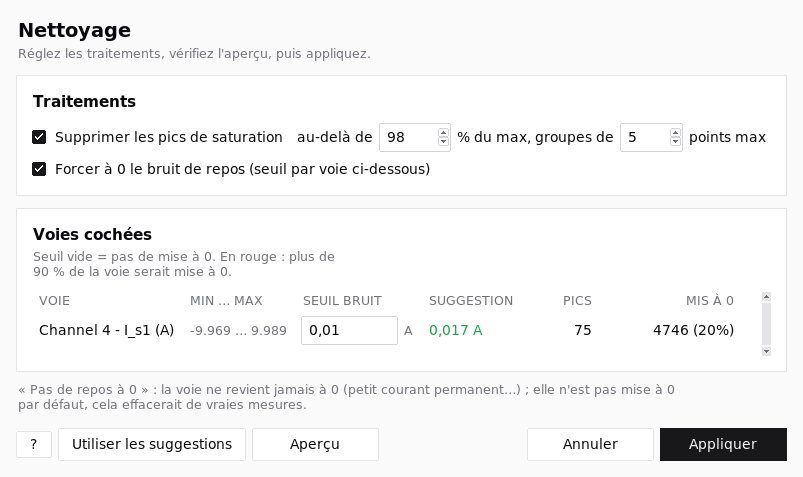
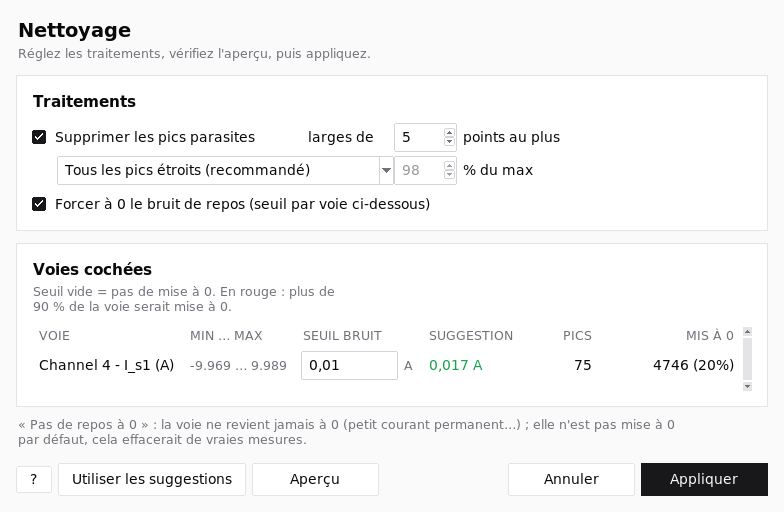
Pics parasites de toute hauteur, noms des voies GL980 (v0.6.0)
Problèmes constatés sur un vrai fichier GL980 (1,7 M points) :

- Légendes « A », « A (2) », « V (2) »… : la ligne d'unités sous l'en-tête
  (« No.,yyyy/mm/dd,hh:mm:ss,us,V,A,… ») n'était pas reconnue à cause des
  formats de date / heure ; elle devenait le nom des voies. Les noms du bloc
  AMP settings (U_alim, I_s1…) sont de nouveau utilisés.
- Pics non supprimés : seuls les pics au-delà de 98 % du maximum étaient
  retirés (5 par passe). Les parasites de hauteur quelconque restaient
  (reproduit : 50 points parasites sur 80 restants).

Nouvelle règle des pics : groupe de 5 points au plus qui s'écarte du niveau
local de plus de 8 × le bruit et de 5 % de l'amplitude utile (sans les pics),
ET à la fois des points juste avant et juste après (un front de créneau
n'est jamais touché, même avec un parasite juste à côté). Le mode
« saturation seule » reste disponible dans la fenêtre de nettoyage.

Tests : parasites de hauteurs variées dont un juste avant un front (80/80
retirés, aucun autre point modifié), ligne d'unités avec formats de date.

diff --git a/cleantrace/cleaning.py b/cleantrace/cleaning.py
@@ -4,12 +4,13 @@ Règles métier :
 
 1. **Bruit de repos** (``chk_noise``) : pendant les phases d'arrêt, tout signal sous le
    seuil physique (< 10 mA, < 5 mV...) est forcé à 0.0.
-2. **Pics de saturation** (``chk_peaks``) : les groupes d'échantillons étroits proches du
-   plafond de mesure (> 98 % du max) qui dépassent l'enveloppe minimale SciPy
-   (``minimum_filter1d`` suivi de ``maximum_filter1d``, c'est-à-dire une ouverture
-   morphologique) ET le niveau local de la courbe de beaucoup plus que le bruit de
-   mesure, sont remplacés par ce niveau local (médiane glissante), puis lissés par
+2. **Pics parasites** (``chk_peaks``) : les groupes d'échantillons étroits (5 points au
+   plus) qui s'écartent du niveau local de la courbe (médiane glissante) de beaucoup plus
+   que le bruit de mesure sont remplacés par ce niveau local, puis lissés par
    ``gaussian_filter1d``. Le haut du bruit d'un palier réel n'est donc jamais raboté.
+   Mode « saturation » (règle d'origine du cahier des charges) : seulement les pics
+   au-delà de 98 % du max, qui dépassent aussi l'enveloppe minimale SciPy
+   (``minimum_filter1d`` puis ``maximum_filter1d``, ouverture morphologique).
 
 Garanties (critères d'acceptation) :
 
@@ -41,6 +42,7 @@ NOISE_THRESHOLDS = {
 class CleaningOptions:
     remove_noise: bool = True  # chk_noise
     remove_peaks: bool = True  # chk_peaks
+    peak_mode: str = "all"  # "all" : tous les pics étroits ; "saturation" : seulement > saturation_ratio × max
     saturation_ratio: float = 0.98  # seuil "proche du plafond" (fraction du max)
     max_peak_width: int = 5  # largeur max d'un pic parasite (échantillons)
     min_prominence: float = 0.05  # hauteur min d'un pic au-dessus de l'enveloppe (fraction de l'amplitude)
@@ -126,6 +128,7 @@ def clean_signal(
             min_prominence=options.min_prominence,
             sigma=options.smoothing_sigma,
             noise_factor=options.noise_factor,
+            saturation_only=options.peak_mode == "saturation",
         )
     if options.remove_noise:
         threshold = default_noise_threshold(unit) if noise_threshold is _DEFAULT else noise_threshold
@@ -172,8 +175,16 @@ def remove_saturation_peaks(
     sigma: float = 1.0,
     max_iter: int = 5,
     noise_factor: float = 8.0,
+    saturation_only: bool = False,
 ) -> Tuple[np.ndarray, int]:
-    """Supprime les pics de saturation (positifs et négatifs) sans toucher au reste du signal."""
+    """Supprime les pics parasites (positifs et négatifs) sans toucher au reste du signal.
+
+    Un pic est un groupe d'au plus ``max_width`` points consécutifs qui s'écarte du niveau
+    local de la courbe (médiane glissante) de plus de ``noise_factor`` × le bruit de mesure
+    ET de plus de ``min_prominence`` × l'amplitude utile de la voie (calculée sans les pics).
+    Avec ``saturation_only``, seuls les pics au-delà de ``ratio`` × le maximum (ou le
+    minimum) sont concernés — la règle d'origine du cahier des charges.
+    """
     out = np.asarray(y, dtype=float).copy()
     finite = np.isfinite(out)
     if finite.sum() < 3:
@@ -190,19 +201,27 @@ def remove_saturation_peaks(
         upper_env = maximum_filter1d(minimum_filter1d(work, size, mode="nearest"), size, mode="nearest")
         lower_env = minimum_filter1d(maximum_filter1d(work, size, mode="nearest"), size, mode="nearest")
 
-        amplitude = float(np.max(work) - np.min(work))
-        if amplitude == 0:
-            break
-        prominence = min_prominence * amplitude
-        # Niveau local de la courbe (médiane glissante, insensible à un pic de 5 points) et
-        # écart minimal pour parler de pic : jamais moins de noise_factor × le bruit de mesure,
-        # sinon le haut du bruit d'un palier réel serait raboté.
+        # Niveau local de la courbe (médiane glissante, insensible à un pic de max_width points)
         level = median_filter(work, size=4 * max_width + 1, mode="nearest")
+        if saturation_only:
+            amplitude = float(np.max(work) - np.min(work))
+        else:  # amplitude utile, sans les pics (sinon un grand pic en masquerait de plus petits)
+            amplitude = float(np.percentile(level, 99.9) - np.percentile(level, 0.1))
+        prominence = min_prominence * amplitude
+        # Écart minimal pour parler de pic : jamais moins de noise_factor × le bruit de mesure,
+        # sinon le haut du bruit d'un palier réel serait raboté.
         margin = max(prominence, noise_factor * _noise_sigma(work))
+        if margin <= 0:
+            break
+        deviation = work - level
 
-        high, low = _saturated(work, ratio)
-        pos = _narrow(high, max_width) & (work - upper_env > prominence) & (work - level > margin)
-        neg = _narrow(low, max_width) & (lower_env - work > prominence) & (level - work > margin)
+        if saturation_only:
+            high, low = _saturated(work, ratio)
+            pos = _narrow(high, max_width) & (work - upper_env > prominence) & (deviation > margin)
+            neg = _narrow(low, max_width) & (lower_env - work > prominence) & (-deviation > margin)
+        else:
+            pos = _confirm_spikes(work, _narrow(deviation > margin, max_width), max_width, margin)
+            neg = _confirm_spikes(work, _narrow(-deviation > margin, max_width), max_width, margin)
         if not (pos.any() or neg.any()):
             break
         work[pos | neg] = level[pos | neg]
@@ -249,6 +268,25 @@ def _runs(mask: np.ndarray):
     return zip(edges[::2], edges[1::2])
 
 
+def _confirm_spikes(y: np.ndarray, mask: np.ndarray, width: int, margin: float) -> np.ndarray:
+    """Ne garde que les groupes qui s'écartent À LA FOIS des points juste avant et juste après,
+    dans le même sens. Un front de créneau ne s'écarte que d'un côté : il n'est jamais touché,
+    même si un pic voisin fausse la médiane locale."""
+    out = np.zeros_like(mask)
+    n = len(y)
+    for start, stop in _runs(mask):
+        left = y[max(0, start - width):start]
+        right = y[stop:min(n, stop + width)]
+        if not len(left) or not len(right):
+            continue  # au bord du fichier : pas assez de contexte
+        run = y[start:stop]
+        peak = run[np.argmax(np.abs(run - np.median(np.r_[left, right])))]
+        d_left, d_right = peak - np.median(left), peak - np.median(right)
+        if abs(d_left) > margin and abs(d_right) > margin and np.sign(d_left) == np.sign(d_right):
+            out[start:stop] = True
+    return out
+
+
 def _noise_sigma(y: np.ndarray) -> float:
     """Écart-type du bruit de mesure, estimé de façon robuste sur les différences successives
     (les fronts des créneaux et les pics sont trop rares pour fausser la médiane)."""
@@ -256,6 +294,12 @@ def _noise_sigma(y: np.ndarray) -> float:
     if len(d) == 0:
         return 0.0
     mad = float(np.median(np.abs(d - np.median(d))))
+    if mad == 0:
+        # Valeurs très quantifiées (ex. pas de 0,01, la plupart des points égaux à leur
+        # voisin) : le bruit vaut un pas de mesure. Si seuls les fronts varient, le signal
+        # est sans bruit (données de synthèse) : bruit nul.
+        steps = np.abs(d[d != 0])
+        return float(np.min(steps)) if len(steps) > 0.1 * len(d) else 0.0
     return 1.4826 * mad / np.sqrt(2.0)
 
 

diff --git a/cleantrace/dialogs.py b/cleantrace/dialogs.py
@@ -10,6 +10,11 @@ from .export import Key
 from .help import HelpWindow
 from .theme import C, card
 
+PEAK_MODES = {
+    "all": "Tous les pics étroits (recommandé)",
+    "saturation": "Seulement la saturation, au-delà de",
+}
+
 
 def _fmt(value: Optional[float]) -> str:
     return "" if value is None else "{:g}".format(value).replace(".", ",")
@@ -50,18 +55,26 @@ class CleaningDialog(tk.Toplevel):
         outer.pack(fill=tk.X)
         top = ttk.Frame(box, style="Card.TFrame")  # grille (card() place son titre avec pack)
         top.pack(fill=tk.X)
-        ttk.Checkbutton(top, text="Supprimer les pics de saturation", variable=app.chk_peaks,
+        ttk.Checkbutton(top, text="Supprimer les pics parasites", variable=app.chk_peaks,
                         style="Card.TCheckbutton").grid(row=0, column=0, sticky=tk.W)
-        ttk.Label(top, text="au-delà de", style="Card.TLabel").grid(row=0, column=1, padx=(12, 4))
-        self.saturation = tk.StringVar(value="98")
-        ttk.Spinbox(top, from_=50, to=100, increment=1, width=5, textvariable=self.saturation).grid(row=0, column=2)
-        ttk.Label(top, text="% du max, groupes de", style="Card.TLabel").grid(row=0, column=3, padx=4)
+        ttk.Label(top, text="larges de", style="Card.TLabel").grid(row=0, column=1, padx=(12, 4))
         self.width = tk.StringVar(value="5")
-        ttk.Spinbox(top, from_=1, to=50, increment=1, width=4, textvariable=self.width).grid(row=0, column=4)
-        ttk.Label(top, text="points max", style="Card.TLabel").grid(row=0, column=5, padx=4)
+        ttk.Spinbox(top, from_=1, to=50, increment=1, width=4, textvariable=self.width).grid(row=0, column=2)
+        ttk.Label(top, text="points au plus", style="Card.TLabel").grid(row=0, column=3, padx=4, sticky=tk.W)
+        self.peak_mode = tk.StringVar(value=PEAK_MODES["all"])
+        mode = ttk.Combobox(top, textvariable=self.peak_mode, values=list(PEAK_MODES.values()),
+                            state="readonly", width=34)
+        mode.grid(row=1, column=0, columnspan=2, sticky=tk.W, padx=(26, 0), pady=(4, 0))
+        mode.bind("<<ComboboxSelected>>", lambda _e: self._on_peak_mode())
+        self.saturation = tk.StringVar(value="98")
+        self.saturation_box = ttk.Spinbox(top, from_=50, to=100, increment=1, width=4,
+                                          textvariable=self.saturation)
+        self.saturation_box.grid(row=1, column=2, pady=(4, 0))
+        ttk.Label(top, text="% du max", style="Card.TLabel").grid(row=1, column=3, padx=4, pady=(4, 0), sticky=tk.W)
+        self._on_peak_mode()
         ttk.Checkbutton(top, text="Forcer à 0 le bruit de repos (seuil par voie ci-dessous)",
                         variable=app.chk_noise, style="Card.TCheckbutton").grid(
-            row=1, column=0, columnspan=6, sticky=tk.W, pady=(6, 0))
+            row=2, column=0, columnspan=6, sticky=tk.W, pady=(8, 0))
 
         # --- tableau des voies
         outer, table_box = card(body, "Voies cochées",
@@ -136,10 +149,15 @@ class CleaningDialog(tk.Toplevel):
 
     # ------------------------------------------------------------------- actions
 
+    def _on_peak_mode(self) -> None:
+        saturation = self.peak_mode.get() == PEAK_MODES["saturation"]
+        self.saturation_box.state(["!disabled"] if saturation else ["disabled"])
+
     def options(self) -> CleaningOptions:
         return CleaningOptions(
             remove_noise=self.app.chk_noise.get(),
             remove_peaks=self.app.chk_peaks.get(),
+            peak_mode="saturation" if self.peak_mode.get() == PEAK_MODES["saturation"] else "all",
             saturation_ratio=float(self.saturation.get().replace(",", ".")) / 100.0,
             max_peak_width=int(self.width.get()),
         )

diff --git a/cleantrace/app.py b/cleantrace/app.py
@@ -140,12 +140,12 @@ class CleanTraceApp:
             return lambda header: ttk.Button(header, text="?", style="Icon.TButton", width=2,
                                              command=lambda: HelpWindow.open(self.root, section)).pack(side=tk.RIGHT)
 
-        outer, clean = card(side, "Nettoyage", "Pics de saturation et bruit de repos des voies cochées.",
+        outer, clean = card(side, "Nettoyage", "Pics parasites et bruit de repos des voies cochées.",
                             actions=help_action("Nettoyage"))
         outer.pack(fill=tk.X, padx=(0, 12), pady=(0, 12))
         self.chk_noise = tk.BooleanVar(value=True)
         self.chk_peaks = tk.BooleanVar(value=True)
-        ttk.Checkbutton(clean, text="Supprimer les pics de saturation", variable=self.chk_peaks,
+        ttk.Checkbutton(clean, text="Supprimer les pics parasites", variable=self.chk_peaks,
                         style="Card.TCheckbutton").pack(anchor=tk.W)
         ttk.Checkbutton(clean, text="Forcer à 0 le bruit de repos", variable=self.chk_noise,
                         style="Card.TCheckbutton").pack(anchor=tk.W)
@@ -351,8 +351,8 @@ class CleanTraceApp:
 
         def done(report):
             self.redraw()
-            message = "Nettoyage de {} voie(s) : {} pic(s) supprimé(s), {} point(s) de bruit forcés à 0.".format(
-                len(keys), report.peak_points, report.noise_points)
+            message = "Nettoyage de {} voie(s) : {} point(s) de pics corrigés, {} point(s) de bruit forcés à 0.".format(
+                len(keys), _thousands(report.peak_points), _thousands(report.noise_points))
             if options.remove_noise and report.noise_points == 0:
                 message += " Aucun repos sous le seuil : voies qui ne reviennent pas à 0, ou seuil trop bas."
             self._set_status(message)
@@ -599,6 +599,10 @@ class CleanTraceApp:
         details = "".join(traceback.format_exception(exc_type, exc, tb))
         print(details)
         messagebox.showerror("Erreur inattendue", "{}\n\n(détails dans la console)".format(exc), parent=self.root)
+
+
+def _thousands(n: int) -> str:
+    return "{:,}".format(n).replace(",", " ")
 
 
 def _flatten_toolbar(toolbar) -> None:

diff --git a/tests/test_cleantrace.py b/tests/test_cleantrace.py
@@ -303,6 +303,28 @@ def test_noisy_plateau_top_is_not_shaved():
     assert n == 2 and abs(out[200] - 85) < 5 and abs(out[400] - 160) < 5  # remis au niveau du palier
 
 
+def test_spikes_of_any_height_removed_edges_untouched():
+    """Parasites de hauteurs variées (pas seulement la saturation), y compris juste avant un
+    front de créneau : tous retirés, et le front lui-même n'est pas déformé."""
+    rng = np.random.default_rng(0)
+    n = 20000
+    i = np.arange(n)
+    clean = np.where((i // 2000) % 2 == 1, 0.3 * np.exp(-((i % 2000) / 1500)), 0.0) + rng.normal(0, 0.003, n)
+    y = clean.copy()
+    spikes = list(rng.choice(np.arange(50, n - 50), 40, replace=False)) + [1995]  # 1995 : juste avant un front
+    for pos in spikes:
+        y[pos:pos + 2] = rng.choice([-1, 1]) * rng.uniform(0.8, 3.6)
+    out, n_fixed = remove_saturation_peaks(y)
+    assert np.sum(np.abs(out) > 0.5) == 0  # plus aucun parasite
+    hit = np.zeros(n, bool)
+    for pos in spikes:
+        hit[pos:pos + 2] = True
+    np.testing.assert_array_equal(out[~hit], y[~hit])  # rien d'autre n'a bougé (fronts compris)
+    # l'ancienne règle (saturation seule) laissait la plupart des parasites
+    old, _ = remove_saturation_peaks(y, saturation_only=True)
+    assert np.sum(np.abs(old) > 0.5) > 20
+
+
 def test_pure_noise_channel_untouched():
     """Voie sans signal (0,02 mA ± bruit) : rien n'est un pic."""
     rng = np.random.default_rng(4)

diff --git a/tests/test_formats.py b/tests/test_formats.py
@@ -192,3 +192,21 @@ def test_excel_row_limit_is_reported(tmp_path):
     m = load_measurement(path)
     assert len(m.data) == 1000
     assert any("1 718 363" in w and "1 000" in w for w in m.warnings)
+
+
+def test_units_row_with_date_time_formats(tmp_path):
+    """GL980 réel : sous « Number,Date,Time,us,CH3… » une ligne d'unités avec des formats de
+    date / heure. Elle ne doit pas devenir les noms des voies (« A », « A (2) »…)."""
+    lines = ["Vendor,GRAPHTEC Corporation", "Model,GL980", "Sampling interval,100ms", "AMP settings",
+             "CH,Signal name,Amp,Input,Range,Filter,Span,,Unit",
+             "CH3,U_alim,M,DC,50V,Off,25,-25,V", "CH4,I_s1,M,DC,50mV,Off,10,-10,A", "Data",
+             "Number,Date,Time,us,CH3,CH4,Alarm,AlarmOut", "No.,yyyy/mm/dd,hh:mm:ss,us,V,A,,"]
+    for k in range(100):
+        ts = START + pd.Timedelta(milliseconds=100 * k)
+        lines.append("{},{},{},{},+24.0,{:+.3f},LLLL,LLLL".format(
+            k + 1, ts.strftime("%Y/%m/%d"), ts.strftime("%H:%M:%S"), ts.microsecond, 0.001 * k))
+    path = tmp_path / "Mes-_260601-170139.CSV"
+    path.write_text("\n".join(lines) + "\n")
+    m = load_measurement(path)
+    assert [c.label for c in m.channels] == ["Channel 3 - U_alim (V)", "Channel 4 - I_s1 (A)"]
+    assert m.start == START and m.period_s == pytest.approx(0.1)

diff --git a/cleantrace/loader.py b/cleantrace/loader.py
@@ -604,10 +604,18 @@ _UNIT_CELL_RE = re.compile(r"^[%°ºµA-Za-z/.\- ]{0,8}$")
 _ALARM_LABEL_RE = re.compile(r"^[A-Za-z]\d{3,}$")  # « A1234567890 » (GL860)
 
 
+_TIME_FORMAT_CELL_RE = re.compile(r"^[YyMmDdHhSsUuµ/:.,\- ]{2,24}$")  # « yyyy/mm/dd », « hh:mm:ss »
+
+
 def _looks_like_unit_row(row: List[str]) -> bool:
-    """Ligne d'unités sous les en-têtes : « "","","","V","mV","degC" » ou « NO.,Time,ms,V,mA »."""
+    """Ligne d'unités sous les en-têtes : « "","","","V","mV","degC" », « NO.,Time,ms,V,mA »
+    ou « No.,yyyy/mm/dd,hh:mm:ss,us,V,A » (formats de date / heure dans les colonnes temps)."""
     cells = [c.strip().strip('"').strip("()[]") for c in row]
-    return any(cells) and all(_UNIT_CELL_RE.match(c) or _ALARM_LABEL_RE.match(c) for c in cells)
+    filled = [c for c in cells if c]
+    if not filled or any(_NUMBER_RE.match(c) for c in filled):
+        return False
+    return all(_UNIT_CELL_RE.match(c) or _ALARM_LABEL_RE.match(c) or _TIME_FORMAT_CELL_RE.match(c)
+               for c in filled)
 
 
 def _find_headers(rows, first_data, n_cols):

diff --git a/cleantrace/__init__.py b/cleantrace/__init__.py
@@ -1,3 +1,3 @@
 """CleanTrace — import, synchronisation, nettoyage et export de mesures de bancs d'essai."""
 
-__version__ = "0.5.0"
+__version__ = "0.6.0"

diff --git a/README.md b/README.md
@@ -37,7 +37,7 @@ python main.py
 
 1. **Ouvrir des fichiers…** (essayer ceux du dossier `exemples/`).
 2. Cocher les voies à afficher.
-3. **Nettoyer…** : supprime les pics de saturation et met à 0 le bruit de repos. Une fenêtre
+3. **Nettoyer…** : supprime les pics parasites (quelle que soit leur hauteur) et met à 0 le bruit de repos. Une fenêtre
    montre, voie par voie, le seuil de bruit (réglable, avec une suggestion calculée sur les
    données) et le nombre de points modifiés **avant** d'appliquer. Bouton **?** / **Aide** :
    explications détaillées.
